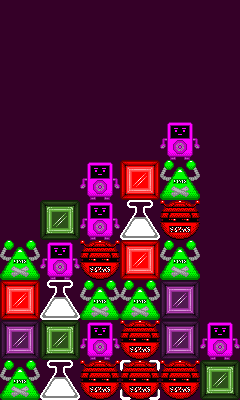
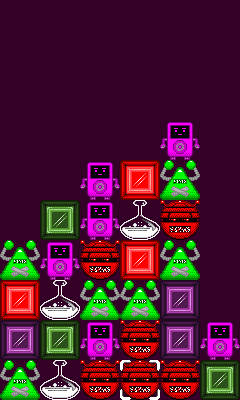
effects appear for gold robot action combos as well

Changed region(s): [[0.1458, 0.9, 0.35, 1.0], [0.1458, 0.69, 0.35, 0.81], [0.4958, 0.48, 0.6708, 0.6]]

diff --git a/engine.html b/engine.html
@@ -3020,6 +3020,12 @@ $def with (name)
 
           player.addScore(500*new_item.chain)
 
+          if (old_item.type == 2) {
+            if (old_item.action_combo) {
+              this.board.effects.push(new ChainEffect(this,old_item))
+            }
+          }
+
         }
 
         // check if there are items breaking on this stack
